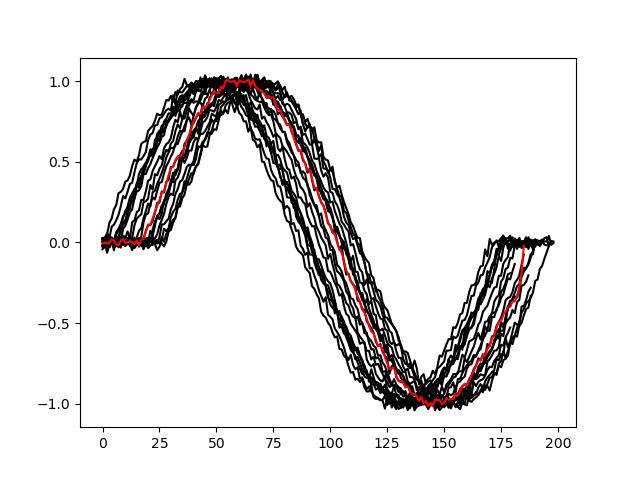
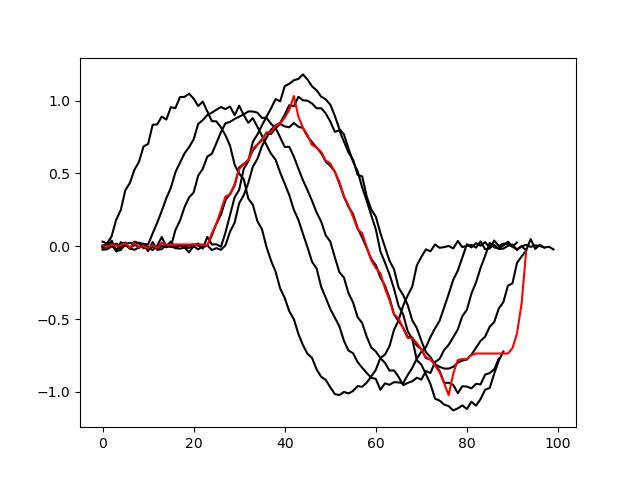
setup for timing test

diff --git a/DBA.py b/DBA.py
@@ -150,8 +150,8 @@ def DBA_update(center, series, cost_mat, path_mat, delta_mat):
 
 def main():
     #generating synthetic data
-    n_series = 20
-    length = 200
+    n_series = 6
+    length = 100
 
     series = list()
     padding_length=30
@@ -168,7 +168,8 @@ def main():
         series_i = series_i[:l]
         #randomize a bit
         series_i = randomizer_fun(series_i)
-
+        #amplify the series a bit
+        series_i=np.random.uniform(.8,1.2)*series_i
         series.append(series_i)
 
     #plotting the synthetic data
